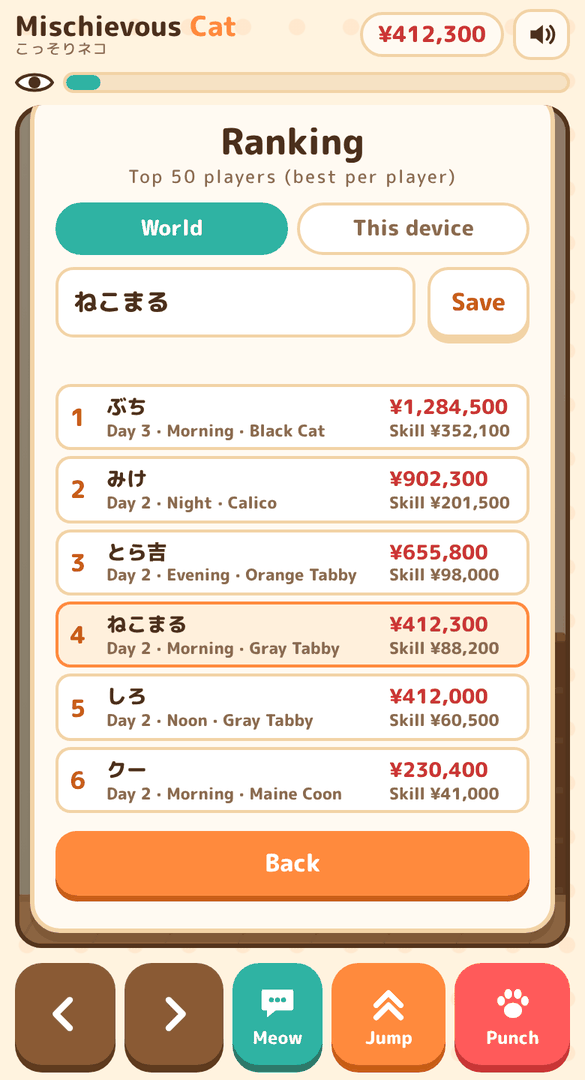
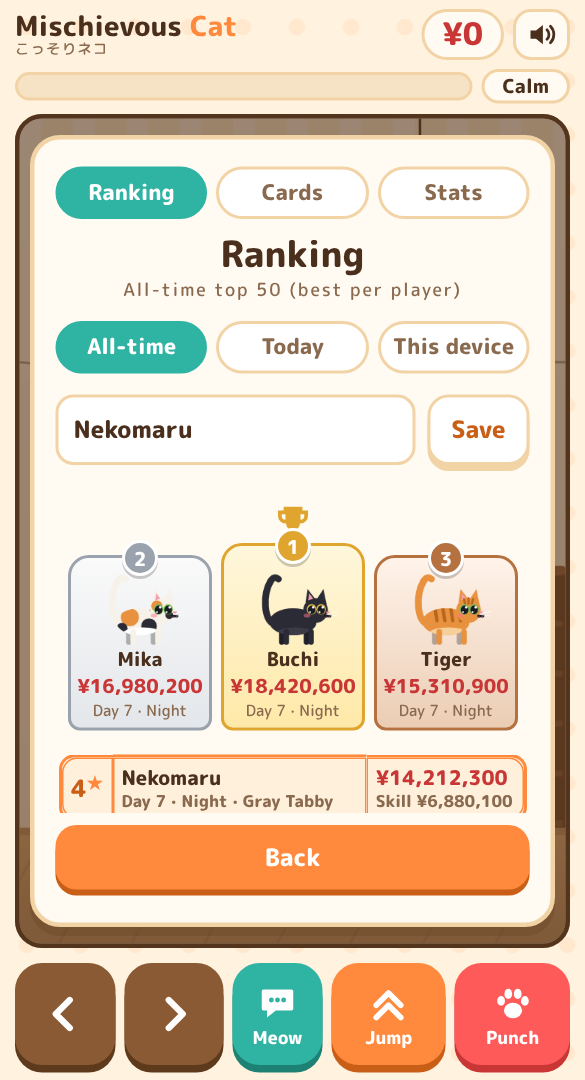
4.48.6: 吊り照明のコードが壁の時計などの前を通らないように、README のランキング画面を撮り直す

diff --git a/index.html b/index.html
@@ -361,7 +361,7 @@ const FONT = '"M PLUS Rounded 1c","Hiragino Maru Gothic ProN","Hiragino Sans","B
 try { document.fonts.load(`500 16px "M PLUS Rounded 1c"`); document.fonts.load(`800 16px "M PLUS Rounded 1c"`); } catch (e) {}
 const SITE = 'https://kotaooka.github.io/mischievous-cat/';
 // バージョン（中身を変えたら上げる。sw.js の VERSION とは別）
-const APP_VER = '4.48.5', REPO = 'https://github.com/kotaooka/mischievous-cat', AUTHOR = 'Kota Ooka';   // AUTHOR：スタッフロールと締めの画面に出す作者名
+const APP_VER = '4.48.6', REPO = 'https://github.com/kotaooka/mischievous-cat', AUTHOR = 'Kota Ooka';   // AUTHOR：スタッフロールと締めの画面に出す作者名
 const verLine = () => `<p class="ver">v${APP_VER}　<a href="${REPO}" target="_blank" rel="noopener">GitHub</a></p>${lastErrLine()}`;
 // 最後に起きたエラーを端末に残し、設定画面のバージョンの下に小さく出す（原因を調べるため。押すと消える）
 function noteErr(kind, e) { try { const msg = (e && (e.message || e.reason && e.reason.message)) || String(e && e.reason || e), st = (e && (e.error && e.error.stack || e.reason && e.reason.stack)) || ''; store.set('nekoLastErr', JSON.stringify({ v: APP_VER, kind, state: typeof state === 'string' ? state : '', msg: String(msg).slice(0, 160), stack: String(st).slice(0, 400), at: new Date().toISOString() })); } catch (e2) {} }
@@ -681,10 +681,23 @@ function tidyHang() {
   }
 }
 // 吊り照明の位置：どの角度に揺れても台に立ったネコの頭（足場 − 30）から 26px 以上離れ、カーテンレール・吊り棚・棚・本棚のどれかからジャンプで届く所を選ぶ
+// 4.48.6：吊り照明のコード（天井から照明まで）が、壁の飾り（時計・ポスター・カレンダー・貼り紙・札・犯人ボード・トイレの小窓）の前を通らない所に置く
+function lampAvoid() {
+  const d = dayOf(level), r = [];
+  if (room === 'toilet') r.push([174, 256]);   // 小窓と窓台
+  else {
+    r.push([93, 147]);   // 時計（と 5 日目からの「ネコ注意」）
+    if (room !== 'living') r.push([258, 322]);   // ポスター・カレンダー・おたまとフライパン（リビングはテレビで、照明より下）
+    if (d >= 7) r.push([270, 330]);   // 「監視中」の札
+    if (d >= 6 && room === 'study') r.push([176, 254]);   // 犯人ボード
+  }
+  return r;
+}
 function placeLamp() {
-  const plats = Object.values(PL).filter(p => p !== PL.floor && p !== PL.tank);
+  const plats = Object.values(PL).filter(p => p !== PL.floor && p !== PL.tank && p.x1 > -100), avoid = lampAvoid();
   for (const L of [195, 190, 200, 185, 205])
-    for (const ax of [133, 125, 140, 115, 238, 244, 232, 60, 300]) {
+    for (const ax of [133, 125, 140, 115, 238, 244, 232, 60, 300, 165, 175, 185, 200, 210, 220, 75, 345]) {
+      if (avoid.some(([a, b]) => ax > a - 6 && ax < b + 6)) continue;
       let ok = true;
       for (let th = -0.62; th <= 0.62 && ok; th += 0.02) {
         const bx = ax + L * Math.sin(th), by = L * Math.cos(th);

diff --git a/sw.js b/sw.js
@@ -1,6 +1,6 @@
 // こっそりネコのサービスワーカー：一度開けばオフラインでも遊べるようにする
 // 中身を更新したら VERSION を上げる（古いキャッシュを消すため）
-const VERSION = 'neko-v146';
+const VERSION = 'neko-v147';
 const CORE = ['./', './index.html', './manifest.webmanifest', './icons/icon.svg', './icons/icon-192.png', './icons/icon-512.png', './icons/apple-touch-icon.png', './fonts/mplus-rounded-500.woff2', './fonts/mplus-rounded-800.woff2'];
 
 self.addEventListener('install', e => {

diff --git a/development.md b/development.md
@@ -94,6 +94,11 @@ HTML に直接書いた文字（下のボタン、読み上げ用のラベル、
 - ランキングの記録に `k`（続けた回数）を入れる（v6）。署名は `y|s|st|sk|k|uid|鍵`。`firestore.rules` を公開し直すまで、v6 の記録は送れない
 - 見つかった原因：`updSus` でいちばん多く怪しまれ度を上げた見張り（飼い主・子ども・おばあちゃん・お父さん・お客さん・ペットカメラ）を `run.lastBy` に覚え、`caught` で `run.cause` にする。時間切れは `time`。通算記録（`LIFE.cause`・`LIFE.where`）に足して「見つかった原因」「よく見つかった場所」に出す
 
+## 吊り照明のコードと壁の飾り（4.48.6）
+
+- 吊り照明のコード（天井から照明まで）が、配置によって壁の時計の前を通っていた。`lampAvoid` で部屋・日ごとの壁の飾り（時計・ポスター・カレンダー・貼り紙・札・犯人ボード・トイレの小窓）の横の範囲を出し、`placeLamp` はそこを避けて置く。置ける候補の位置も増やした
+- README のランキング画面（10-ranking）を今の表彰台つきの画面で撮り直した（見本の記録）
+
 ## 虹のネコとエンディングのコップ（4.48.4）
 
 - スタッフロール（ほんとうのおしまい）の虹が文字にかぶっていた。`nyanFly` で、文字のない所を虹を引いて飛ぶ：始め（0.8〜4.6 秒）は上の空いている所、終わり（名前が真ん中で止まる前後）は名前の下。上下にぴょこぴょこ揺れ、まわりに星がきらめく。下を歩くネコは出さない
